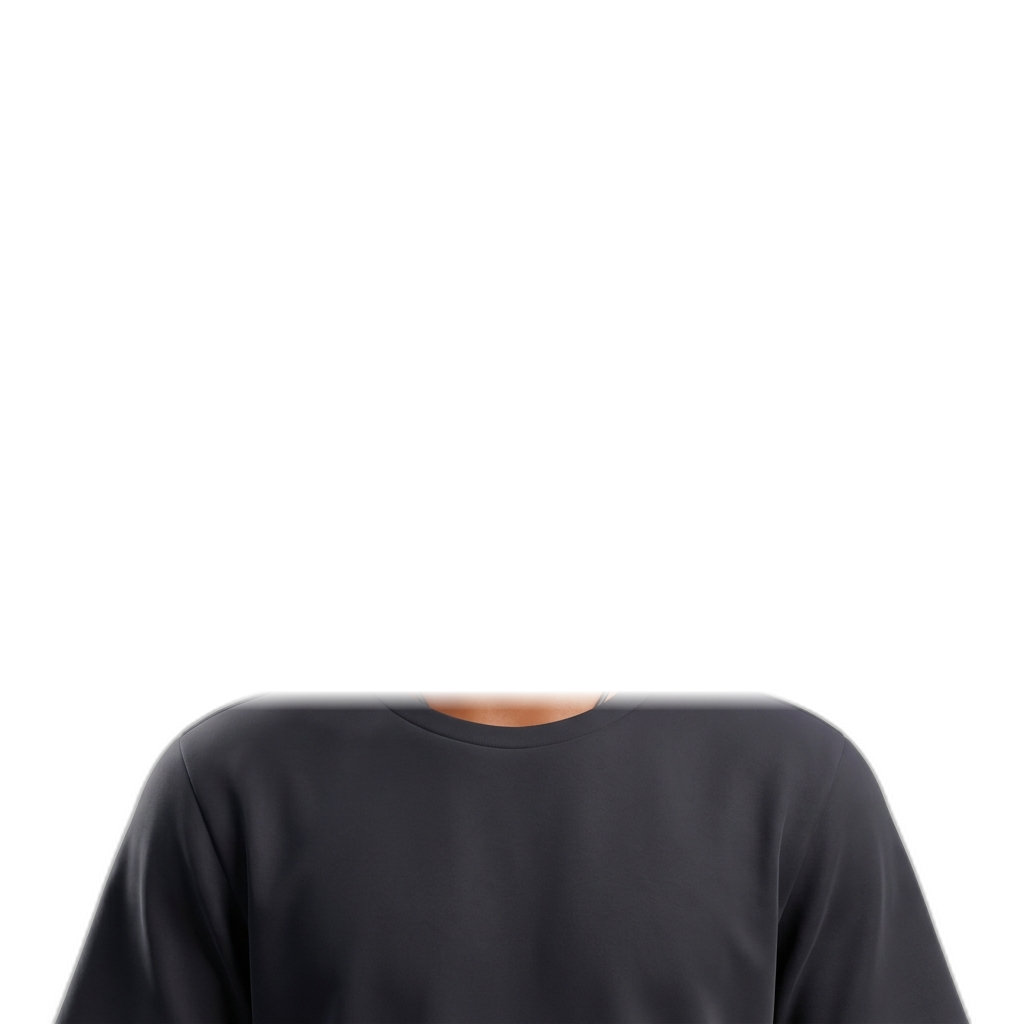
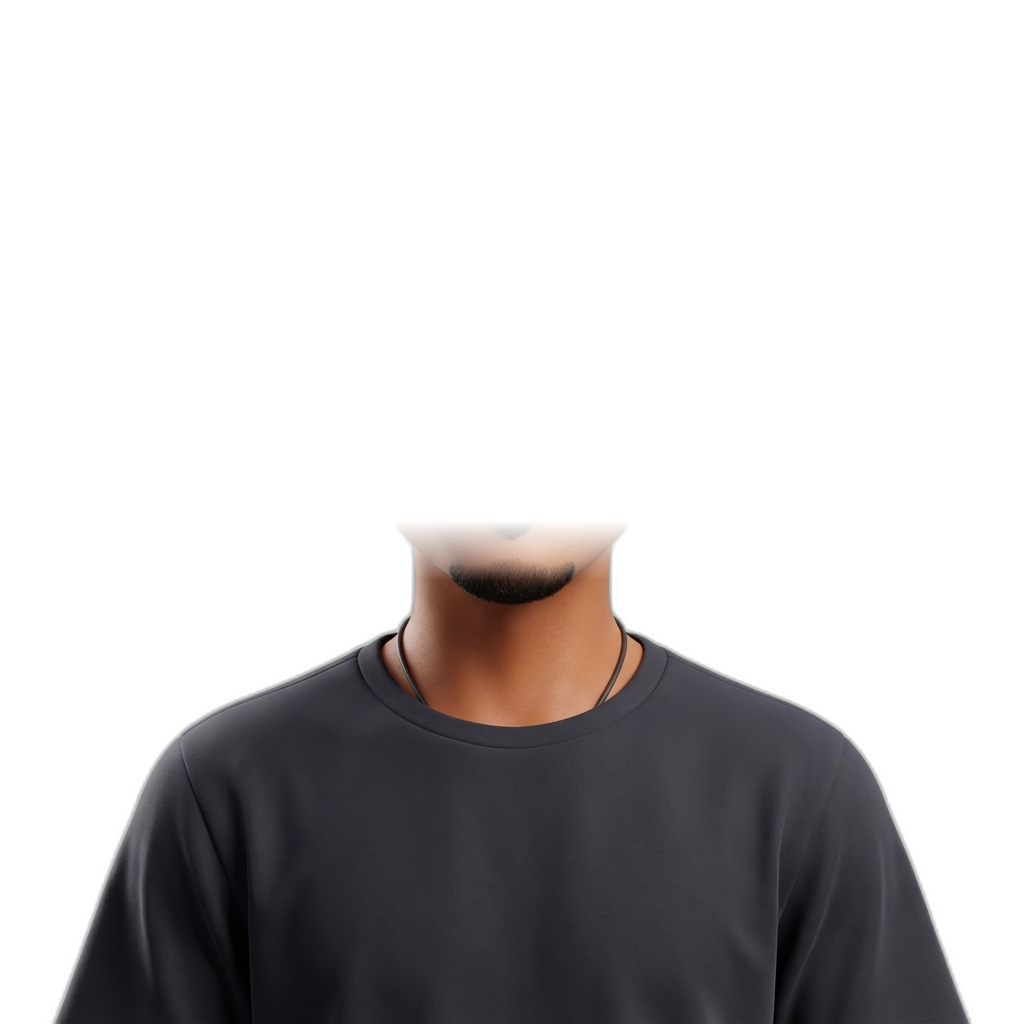
fix(portrait): correct eye coordinates to Y=358, remove white spots from beard, and separate head from body for true 3D parallax

Changed region(s): [[0.2188, 0.5, 0.7812, 0.7188]]

diff --git a/src/hooks/usePortraitLook.ts b/src/hooks/usePortraitLook.ts
@@ -18,15 +18,15 @@ export function usePortraitLook(): PortraitLookValues {
   const y = useMotionValue(0); // -1 … 1 (top … bottom)
 
   // Responsive spring with high stiffness for instant tracking and smooth damping
-  const cfg = { stiffness: 220, damping: 24, mass: 0.25 };
+  const cfg = { stiffness: 260, damping: 26, mass: 0.2 };
   const sx = useSpring(x, cfg);
   const sy = useSpring(y, cfg);
 
   // 3D Head rotation (yaw & pitch in degrees) - clearly noticeable 3D turning
-  const headRotateY = useTransform(sx, (v) => v * 16); // turns left/right ±16 deg
-  const headRotateX = useTransform(sy, (v) => -v * 10); // tilts up/down ±10 deg
-  const headX = useTransform(sx, (v) => v * 16);
-  const headY = useTransform(sy, (v) => v * 10);
+  const headRotateY = useTransform(sx, (v) => v * 18); // turns left/right ±18 deg
+  const headRotateX = useTransform(sy, (v) => -v * 12); // tilts up/down ±12 deg
+  const headX = useTransform(sx, (v) => v * 18);
+  const headY = useTransform(sy, (v) => v * 12);
 
   // Body stays grounded with subtle parallax
   const bodyX = useTransform(sx, (v) => v * 5);

diff --git a/src/components/home/HeroPortrait.tsx b/src/components/home/HeroPortrait.tsx
@@ -14,7 +14,7 @@ export function HeroPortrait({ look }: HeroPortraitProps) {
       {!imageError ? (
         <div
           className="relative w-full h-full overflow-visible"
-          style={{ perspective: 1200, transformStyle: 'preserve-3d' }}
+          style={{ perspective: 1000, transformStyle: 'preserve-3d' }}
         >
           {/* Layer 1: Body (Chest, Shoulders & T-shirt) - Anchored with subtle parallax */}
           <motion.div
@@ -36,7 +36,7 @@ export function HeroPortrait({ look }: HeroPortraitProps) {
               y: look.headY,
               rotateY: look.headRotateY,
               rotateX: look.headRotateX,
-              transformOrigin: '50% 75%',
+              transformOrigin: '50% 58%',
               transformStyle: 'preserve-3d',
             }}
             className="absolute inset-0 z-[2] will-change-transform"
